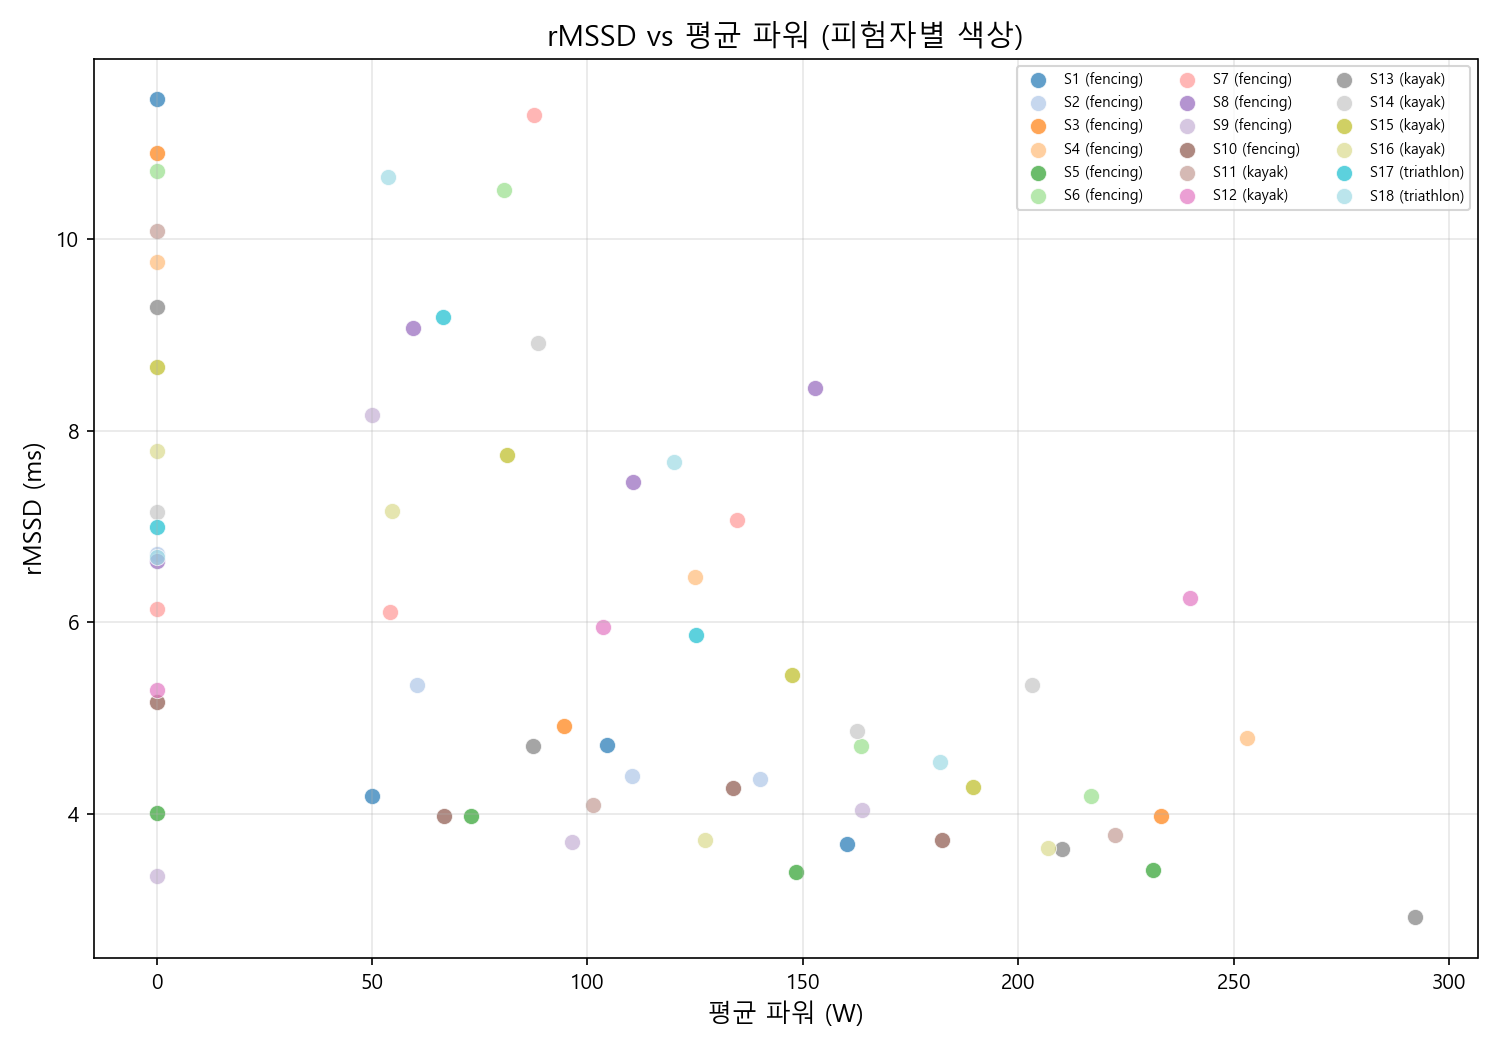
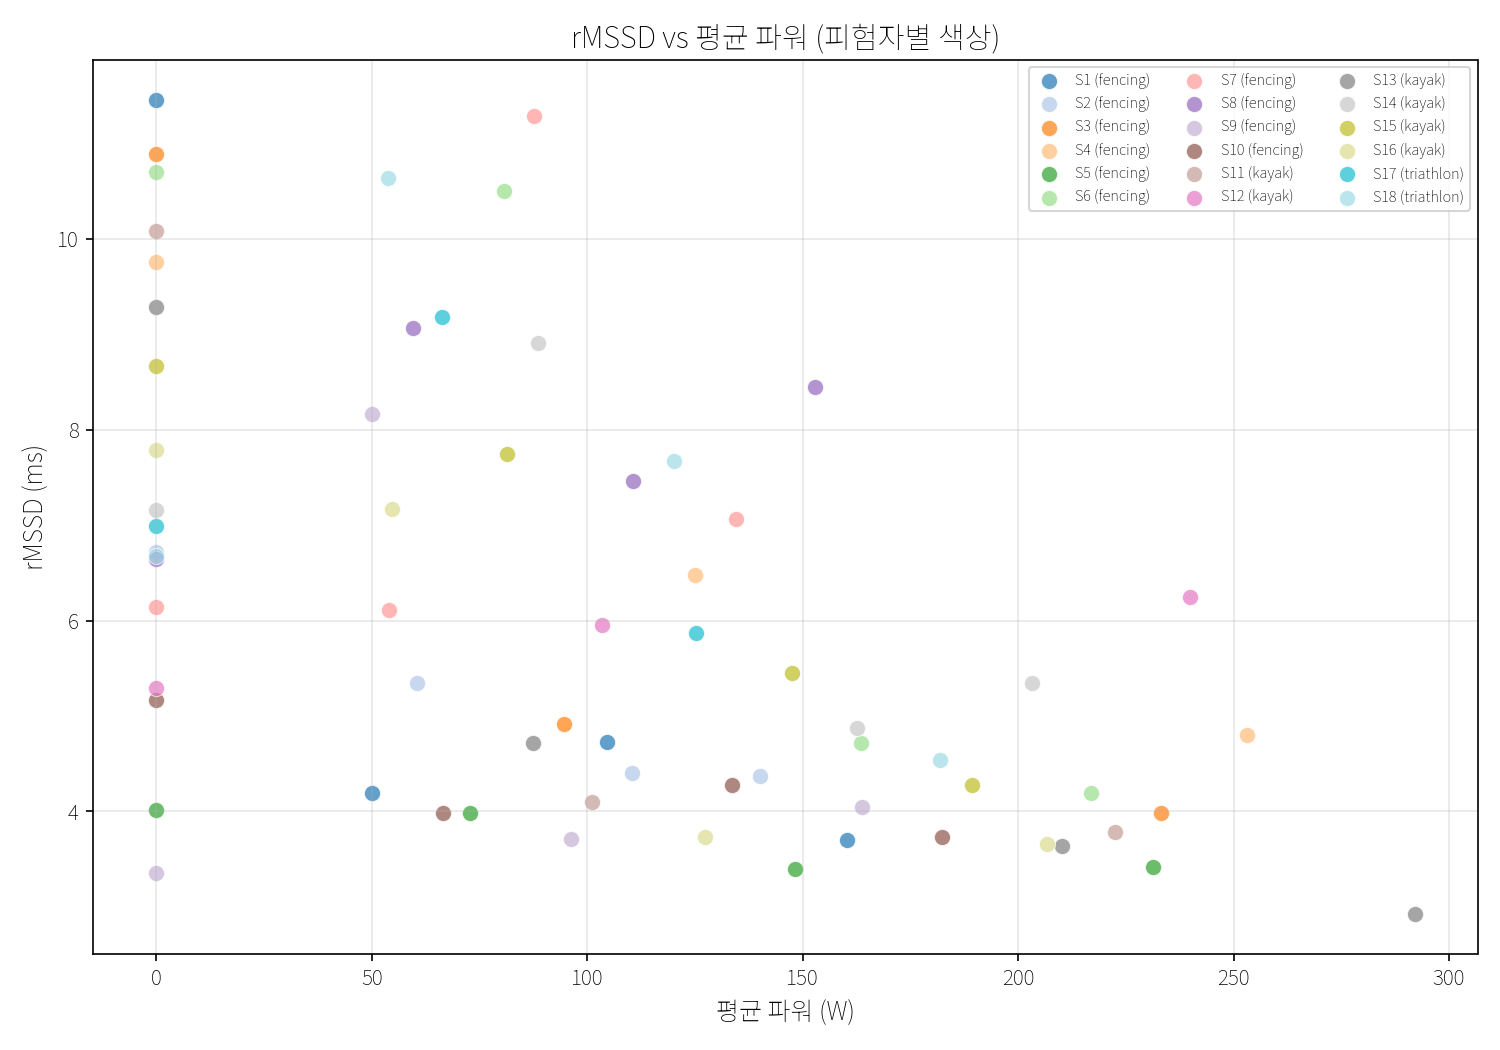
fix(soccer_rnd): plot 한글 폰트 깨짐 해결 및 figures 재생성
- src/viz/fonts.py 공통 헬퍼 추가: Noto Sans KR 우선 적용(Malgun/Apple/Nanum 폴백)
- run_track_B / run_integrated_hypothesis: 한글 폰트 미설정 → tofu(□□□) 깨짐 수정
- run_track_A: Malgun Gothic → 공통 헬퍼(Noto Sans KR)로 통일
- 하드코딩 경로(C:/dev/soccer_rnd) → __file__ 기준으로 교정(이식성 확보)
- 전체 figures 재생성: 글리프 누락 경고 0건 검증

diff --git a/soccer_rnd/notebooks/run_track_B.py b/soccer_rnd/notebooks/run_track_B.py
@@ -7,7 +7,9 @@ Track B 분석 스크립트 — SoccerMon 데이터셋 (Midoglu et al., 2024)
 실행: python notebooks/run_track_B.py
 """
 import sys
-sys.path.insert(0, "C:/dev/soccer_rnd")
+from pathlib import Path
+PROJECT_ROOT_PATH = Path(__file__).resolve().parent.parent
+sys.path.insert(0, str(PROJECT_ROOT_PATH))
 
 import os
 import warnings
@@ -29,7 +31,7 @@ np.random.seed(42)
 # ─────────────────────────────────────────────────────────────────────────────
 # 경로 설정
 # ─────────────────────────────────────────────────────────────────────────────
-BASE_DIR = "C:/dev/soccer_rnd"
+BASE_DIR = str(PROJECT_ROOT_PATH)
 RAW_DIR = os.path.join(BASE_DIR, "data/raw/track_B/subjective")
 FIG_DIR = os.path.join(BASE_DIR, "reports/figures")
 PROC_DIR = os.path.join(BASE_DIR, "data/processed")
@@ -46,6 +48,10 @@ plt.rcParams.update({
     "axes.labelsize": 10,
 })
 sns.set_style("whitegrid")
+# 한글 폰트 적용 (Noto Sans KR 우선) — sns.set_style 이후에 호출해야 덮어쓰기 방지
+from src.viz.fonts import apply_korean_font
+_font = apply_korean_font()
+print(f"[폰트] 적용된 한글 폰트: {_font}")
 
 # ─────────────────────────────────────────────────────────────────────────────
 # 1. 데이터 적재 및 Wide → Long 변환

diff --git a/soccer_rnd/src/viz/fonts.py b/soccer_rnd/src/viz/fonts.py
@@ -1,0 +1,37 @@
+# -*- coding: utf-8 -*-
+"""matplotlib 한글 폰트 설정 유틸리티.
+
+모든 plot 스크립트가 공통으로 호출하여 한글 깨짐(tofu, □□□)을 방지한다.
+우선순위: Noto Sans KR → Malgun Gothic → AppleGothic → NanumGothic.
+시스템에 등록된 폰트가 없으면 Windows 폰트 디렉토리의 NotoSansKR 파일을 직접 등록한다.
+"""
+from pathlib import Path
+
+import matplotlib.pyplot as plt
+from matplotlib import font_manager as fm
+
+# 선호 폰트 순서 (NotoSans 최우선)
+_PREFERRED = ["Noto Sans KR", "Malgun Gothic", "AppleGothic", "NanumGothic"]
+
+# 시스템 등록이 안 된 경우 직접 등록을 시도할 후보 파일
+_FALLBACK_FILES = [
+    Path("C:/Windows/Fonts/NotoSansKR-VF.ttf"),
+    Path("C:/Windows/Fonts/malgun.ttf"),
+]
+
+
+def apply_korean_font() -> str:
+    """matplotlib 전역 rcParams에 한글 폰트를 적용하고 선택된 폰트명을 반환한다."""
+    available = {f.name for f in fm.fontManager.ttflist}
+    chosen = next((name for name in _PREFERRED if name in available), None)
+
+    if chosen is None:
+        for path in _FALLBACK_FILES:
+            if path.exists():
+                fm.fontManager.addfont(str(path))
+                chosen = fm.FontProperties(fname=str(path)).get_name()
+                break
+
+    plt.rcParams["font.family"] = chosen or "sans-serif"
+    plt.rcParams["axes.unicode_minus"] = False  # 음수 기호 깨짐 방지
+    return chosen or "sans-serif"

diff --git a/soccer_rnd/notebooks/run_integrated_hypothesis.py b/soccer_rnd/notebooks/run_integrated_hypothesis.py
@@ -30,6 +30,9 @@ import matplotlib
 matplotlib.use("Agg")
 import matplotlib.pyplot as plt
 
+from src.viz.fonts import apply_korean_font
+_font = apply_korean_font()
+
 from src.data.synthetic_integrated import (
     DEFAULT_PARAMS,
     generate_integrated_dataset,

diff --git a/soccer_rnd/src/viz/__init__.py b/soccer_rnd/src/viz/__init__.py
@@ -1,0 +1,5 @@
+# -*- coding: utf-8 -*-
+"""시각화 유틸리티 패키지."""
+from .fonts import apply_korean_font
+
+__all__ = ["apply_korean_font"]
